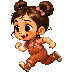
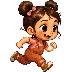
Fix backwards walking, add the dog's idle play
Facing: the renderer assumed every sheet faced right and mirrored purely
on that. Raj, Hanu, the boy and the girl are all drawn facing LEFT, so
they moonwalked one way and appeared to spin around when they changed
direction. Each character now declares nativeFacing and the sprite is
mirrored only when travel disagrees with it.

The boy's and girl's run poses were also drawn facing the opposite way
to their own walk poses, so those two frames are mirrored at slice time
and every frame of a character now shares one facing.

Trap worth recording: sharp's .flop() is silently ignored when applied
after .composite() onto a created canvas, so the first attempt at this
was a no-op that still produced plausible-looking output. The mirror is
now applied to the image itself, verified by the file hash changing.

Idle play: the dog drops a bone and bounces around it, then picks it up
again. Added as a PLAYING state, interruptible by reminders, sleep,
dragging and focus sessions, and bounded so it stays on screen. The bone
is a generated prop, since the sheet has no toy in it.

Also guarded weightedPick against an empty flourish set, which threw
inside the tick loop and would have taken the app down.

diff --git a/state.js b/state.js
@@ -15,6 +15,7 @@ const STATES = Object.freeze({
   DRAGGED: 'DRAGGED',
   WORKING: 'WORKING', // sitting at the work spot during a focus session
   BREAK: 'BREAK',     // stretching between focus sessions
+  PLAYING: 'PLAYING', // bouncing around a dropped toy (the dog's idle game)
 });
 
 const HOUSE = Object.freeze({ CLOSED: 'closed', OPEN: 'open', NIGHT: 'night' });
@@ -34,6 +35,12 @@ const DRAG_HOLD_MS = 8000;
 // Only flip the sprite when there's meaningful horizontal travel. The art has
 // no up/down poses, so near-vertical movement must not cause facing flicker.
 const FACING_EPSILON_PX = 1.5;
+
+// Idle play: short hops around a toy dropped where the game started.
+const PLAY_RADIUS_PX = 70;
+const PLAY_SPEED_FACTOR = 1.25;
+const PLAY_MIN_HOPS = 3;
+const PLAY_MAX_HOPS = 6;
 
 // How long a flourish plays before returning to idle (ms).
 const FLOURISH_MS = {
@@ -70,7 +77,11 @@ function randRange(min, max) {
 }
 
 function weightedPick(weights) {
-  const entries = Object.entries(weights);
+  const entries = Object.entries(weights || {});
+  // A character with no flourishes is valid; returning null makes the caller
+  // simply skip the flourish instead of throwing inside the tick loop, which
+  // would take the whole app down.
+  if (!entries.length) return null;
   const total = entries.reduce((s, [, w]) => s + w, 0);
   let r = Math.random() * total;
   for (const [key, w] of entries) {
@@ -123,6 +134,28 @@ class PalState extends EventEmitter {
 
     this._focusActive = false;
     this._pendingWork = false;
+
+    this._playAnchor = null;
+    this._playHopsLeft = 0;
+  }
+
+  // The toy stays put and the character bounces around it.
+  _beginPlay() {
+    this.state = STATES.PLAYING;
+    this.animation = 'play';
+    this._playAnchor = { x: this.x, y: this.y };
+    this._playHopsLeft = PLAY_MIN_HOPS + Math.floor(Math.random() * (PLAY_MAX_HOPS - PLAY_MIN_HOPS + 1));
+    this._pickPlayHop();
+  }
+
+  _pickPlayHop() {
+    const a = this._playAnchor;
+    const p = this._clamp(
+      a.x + randRange(-PLAY_RADIUS_PX, PLAY_RADIUS_PX),
+      a.y + randRange(-PLAY_RADIUS_PX, PLAY_RADIUS_PX)
+    );
+    this.targetX = p.x;
+    this.targetY = p.y;
   }
 
   get focusActive() {
@@ -298,7 +331,8 @@ class PalState extends EventEmitter {
     const interruptible = this.state === STATES.IDLE
       || this.state === STATES.WALKING
       || this.state === STATES.FOLLOWING
-      || this.state === STATES.RESTING;
+      || this.state === STATES.RESTING
+      || this.state === STATES.PLAYING;
     if (!interruptible) return false;
     if (this._pendingReminder && this._pendingReminder !== kind) {
       if (!this._queuedReminder) this._queuedReminder = kind;
@@ -354,6 +388,8 @@ class PalState extends EventEmitter {
   _arriveIdle() {
     this.state = STATES.IDLE;
     this.animation = 'idle';
+    this._playAnchor = null;
+    this._playHopsLeft = 0;
     this.targetX = null;
     this.targetY = null;
     this._flourish = null;
@@ -435,9 +471,16 @@ class PalState extends EventEmitter {
             this._beginWalk(p.x, p.y);
           } else {
             this._flourish = weightedPick(this.cfg.flourishes);
-            this.animation = this._flourish;
-            this._phaseTimer = FLOURISH_MS[this._flourish] ?? FLOURISH_DEFAULT_MS;
-            this._flourishActive = true;
+            if (this._flourish === 'play') {
+              this._beginPlay();
+              this._idleTimer = randRange(this.cfg.idleMinMs, this.cfg.idleMaxMs);
+              break;
+            }
+            if (this._flourish) {
+              this.animation = this._flourish;
+              this._phaseTimer = FLOURISH_MS[this._flourish] ?? FLOURISH_DEFAULT_MS;
+              this._flourishActive = true;
+            }
           }
           this._idleTimer = randRange(this.cfg.idleMinMs, this.cfg.idleMaxMs);
         } else if (this._flourishActive) {
@@ -447,6 +490,15 @@ class PalState extends EventEmitter {
             this._flourish = null;
             this.animation = 'idle';
           }
+        }
+        break;
+      }
+
+      case STATES.PLAYING: {
+        if (this._moveToward(this.targetX, this.targetY, this.cfg.walkSpeed * PLAY_SPEED_FACTOR, dtMs)) {
+          this._playHopsLeft -= 1;
+          if (this._playHopsLeft <= 0) this._arriveIdle();
+          else this._pickPlayHop();
         }
         break;
       }
@@ -560,6 +612,7 @@ class PalState extends EventEmitter {
       animation: this.animation,
       bubbleText: this.bubbleText,
       houseState: this.houseState,
+      playAnchor: this._playAnchor,
     };
   }
 }

diff --git a/renderer/animations.js b/renderer/animations.js
@@ -10,6 +10,9 @@ export const CHARACTERS = {
     label: 'Raj',
     defaultName: 'Chotu',
     dir: '../assets/pal/',
+    // Which way the source art faces. The renderer mirrors from travel
+    // direction, so getting this wrong makes the character moonwalk.
+    nativeFacing: 'left',
     // Raj's art is a plain shirt + trousers, so the outfit recolour applies.
     recolorable: true,
     // Idle flourishes this character can actually perform.
@@ -38,6 +41,7 @@ export const CHARACTERS = {
     label: 'Hanu',
     defaultName: 'Hanu',
     dir: '../assets/hanu/',
+    nativeFacing: 'left',
     // Hanu's outfit is saturated orange and gold; the recolour targets
     // near-neutral garment pixels and would do nothing useful here.
     recolorable: false,
@@ -79,6 +83,7 @@ CHARACTERS.boy = {
   label: 'Boy',
   defaultName: 'Bud',
   dir: '../assets/boy/',
+  nativeFacing: 'left',
   // Striped shirt and denim shorts — the neutral-garment recolour would
   // misfire on them, so it's off.
   recolorable: false,
@@ -90,6 +95,7 @@ CHARACTERS.girl = {
   label: 'Girl',
   defaultName: 'Pip',
   dir: '../assets/girl/',
+  nativeFacing: 'left',
   recolorable: false,
   flourishes: { sit: 3, wave: 2, jump: 2, stretch: 1 },
   animations: kidAnimations('girl'),
@@ -99,8 +105,9 @@ CHARACTERS.dog = {
   label: 'Dog',
   defaultName: 'Scout',
   dir: '../assets/dog/',
+  nativeFacing: 'right',
   recolorable: false,
-  flourishes: { sit: 3, wave: 2, lie: 2 },
+  flourishes: { sit: 2, wave: 2, lie: 2, play: 4 },
   animations: {
     // A dog at rest sits, rather than standing to attention.
     idle:    { frames: ['dog_sit_01'], ms: 1200, loop: true },
@@ -116,6 +123,9 @@ CHARACTERS.dog = {
     // No stretch pose exists, so exercise time is an energetic bound.
     stretch: { frames: ['dog_run_01', 'dog_run_02'], ms: 220, loop: true },
     jump:    { frames: ['dog_run_02'], ms: 600, loop: false },
+    // Bouncing around the bone — quick, and a different frame order to the
+    // run cycle so play doesn't just look like running.
+    play:    { frames: ['dog_run_02', 'dog_run_01', 'dog_run_03', 'dog_run_01'], ms: 130, loop: true },
     drink:   { frames: ['dog_drink_01'], ms: 900, loop: true },
     sit:     { frames: ['dog_sit_02'], ms: 2000, loop: false },
     lie:     { frames: ['dog_lie_01'], ms: 2500, loop: false },

diff --git a/tools/slice-character.js b/tools/slice-character.js
@@ -65,6 +65,10 @@ const SHEETS = {
   boy: {
     sheet: 'boysheet.png',
     rows: 3,
+    // The run poses are drawn facing right while every walk pose faces left.
+    // Mirror them so the whole character has ONE native facing; the renderer
+    // then flips the sprite purely from travel direction.
+    flip: ['boy_run_01', 'boy_run_02'],
     names: [
       'boy_walk_01', 'boy_walk_02', 'boy_jump_01', 'boy_bed_01',
       'boy_drink_01', 'boy_run_01', 'boy_run_02', 'boy_sit_01',
@@ -74,6 +78,7 @@ const SHEETS = {
   girl: {
     sheet: 'girlsheet.png',
     rows: 3,
+    flip: ['girl_run_01', 'girl_run_02'],
     names: [
       'girl_walk_01', 'girl_walk_02', 'girl_jump_01', 'girl_bed_01',
       'girl_drink_01', 'girl_run_01', 'girl_run_02', 'girl_sit_01',
@@ -379,11 +384,14 @@ async function sliceOne(key, spec) {
     const scale = Math.min(CANVAS / tw, CANVAS / th, 1);
     const outW = Math.max(1, Math.round(tw * scale));
     const outH = Math.max(1, Math.round(th * scale));
-    const resized = await sharp(tight, { raw: { width: tw, height: th, channels: 4 } })
-      .resize(outW, outH, { kernel: 'nearest', fit: 'fill' })
-      .raw().toBuffer();
+    // NOTE: .flop() after .composite() on a created canvas is silently ignored
+    // by sharp, so the mirror has to happen here, on the image itself.
+    let resizePipe = sharp(tight, { raw: { width: tw, height: th, channels: 4 } })
+      .resize(outW, outH, { kernel: 'nearest', fit: 'fill' });
+    if (spec.flip && spec.flip.includes(name)) resizePipe = resizePipe.flop();
+    const resized = await resizePipe.raw().toBuffer();
 
-    await sharp({
+    const composed = sharp({
       create: { width: CANVAS, height: CANVAS, channels: 4, background: { r: 0, g: 0, b: 0, alpha: 0 } },
     })
       .composite([{
@@ -391,9 +399,8 @@ async function sliceOne(key, spec) {
         raw: { width: outW, height: outH, channels: 4 },
         left: Math.round((CANVAS - outW) / 2),
         top: CANVAS - outH, // bottom-aligned so the pose doesn't bob
-      }])
-      .png()
-      .toFile(path.join(outDir, `${name}.png`));
+      }]);
+    await composed.png().toFile(path.join(outDir, `${name}.png`));
 
     manifest.push({ index: i, name, sourceBBox: { x: c.minX, y: c.minY, width: cw, height: ch }, area: c.area });
   }

diff --git a/renderer/chotu.js b/renderer/chotu.js
@@ -6,6 +6,7 @@ const houseEl = document.getElementById('house');
 const houseImg = document.getElementById('houseImg');
 const bubbleEl = document.getElementById('bubble');
 const zzzEl = document.getElementById('zzz');
+const boneEl = document.getElementById('bone');
 
 const HOUSE_BASE = '../assets/house/';
 const PAL_W = 72;
@@ -84,7 +85,11 @@ function renderLoop(ts) {
   const frame = anim.frames[Math.min(frameIndex, anim.frames.length - 1)];
   const src = frameSrcMap[frame];
   if (src) palEl.src = src;
-  palEl.style.transform = `scaleX(${facing < 0 ? -1 : 1})`;
+  // Mirror only when travel direction disagrees with the art's own facing.
+  // Assuming every sheet faces right made the left-facing characters walk
+  // backwards and appear to turn around as they changed direction.
+  const nativeSign = getCharacter(characterKey).nativeFacing === 'right' ? 1 : -1;
+  palEl.style.transform = `scaleX(${facing === nativeSign ? 1 : -1})`;
   requestAnimationFrame(renderLoop);
 }
 requestAnimationFrame(renderLoop);
@@ -233,6 +238,15 @@ window.pixelpal.on('pal:state', (s) => {
     bubbleEl.style.top = `${Math.max(s.y - 44, 4)}px`;
   } else {
     bubbleEl.classList.add('hidden');
+  }
+
+  // The toy sits where the game started; the character bounces around it.
+  if (s.playAnchor) {
+    boneEl.style.left = `${s.playAnchor.x + PAL_W / 2 - 12}px`;
+    boneEl.style.top = `${s.playAnchor.y + PAL_H - 20}px`;
+    boneEl.classList.remove('hidden');
+  } else {
+    boneEl.classList.add('hidden');
   }
 
   palEl.classList.toggle('hidden', s.state === 'SLEEPING');

diff --git a/main.js b/main.js
@@ -105,7 +105,7 @@ const CHARACTERS = {
   dog: {
     label: 'Dog',
     defaultName: 'Scout',
-    flourishes: { sit: 3, wave: 2, lie: 2 },
+    flourishes: { sit: 2, wave: 2, lie: 2, play: 4 },
     moods: { phone: 'lie', crossed: 'sit', wave: 'wave', dance: 'run', point: 'wave' },
   },
 };
@@ -696,6 +696,9 @@ function startTickLoop() {
     const h = housePosition();
     s.houseX = h.x - workArea.x;
     s.houseY = h.y - workArea.y;
+    if (s.playAnchor) {
+      s.playAnchor = { x: s.playAnchor.x - workArea.x, y: s.playAnchor.y - workArea.y };
+    }
     sendTo(chotuWindow, 'pal:state', s);
 
     // electron-store writes to disk synchronously on every set — only persist
@@ -886,6 +889,7 @@ function checkRequiredAssets() {
     path.join(__dirname, 'assets', 'boy', 'boy_wave_01.png'),
     path.join(__dirname, 'assets', 'girl', 'girl_wave_01.png'),
     path.join(__dirname, 'assets', 'dog', 'dog_sit_01.png'),
+    path.join(__dirname, 'assets', 'props', 'bone.png'),
   ];
   const missing = required.filter((p) => !fs.existsSync(p));
   if (missing.length === 0) return true;

diff --git a/renderer/chotu.css b/renderer/chotu.css
@@ -76,3 +76,15 @@ html, body { width: 100%; height: 100%; background: transparent; overflow: hidde
   20%  { opacity: 0.9; }
   100% { transform: translateX(-50%) translateY(-26px) scale(1.3); opacity: 0; }
 }
+
+/* The toy the dog plays with while idling. */
+#bone {
+  position: absolute;
+  left: 0;
+  top: 0;
+  width: 24px;
+  height: 24px;
+  image-rendering: pixelated;
+  pointer-events: none;
+  -webkit-user-drag: none;
+}

diff --git a/renderer/chotu.html b/renderer/chotu.html
@@ -11,6 +11,7 @@
       <div id="zzz" class="hidden">Z z z</div>
     </div>
     <div id="bubble" class="hidden"></div>
+    <img id="bone" class="hidden" src="../assets/props/bone.png" draggable="false" />
     <img id="pal" src="" draggable="false" />
   </div>
   <script type="module" src="chotu.js"></script>
